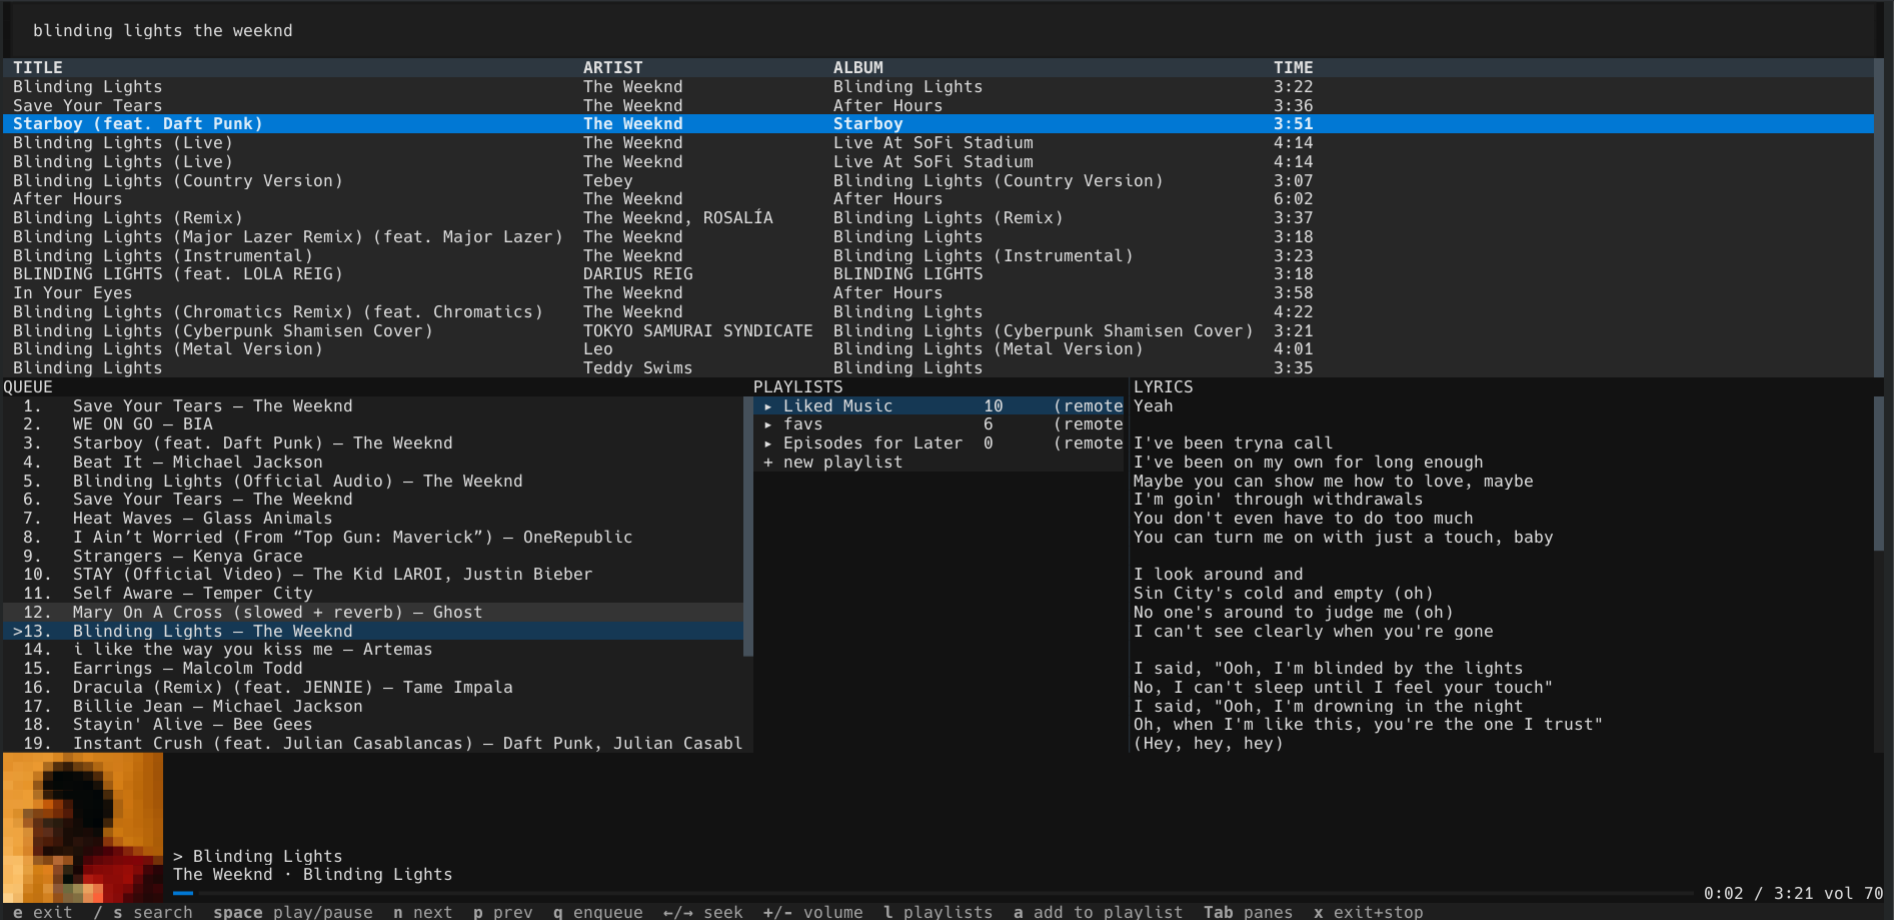
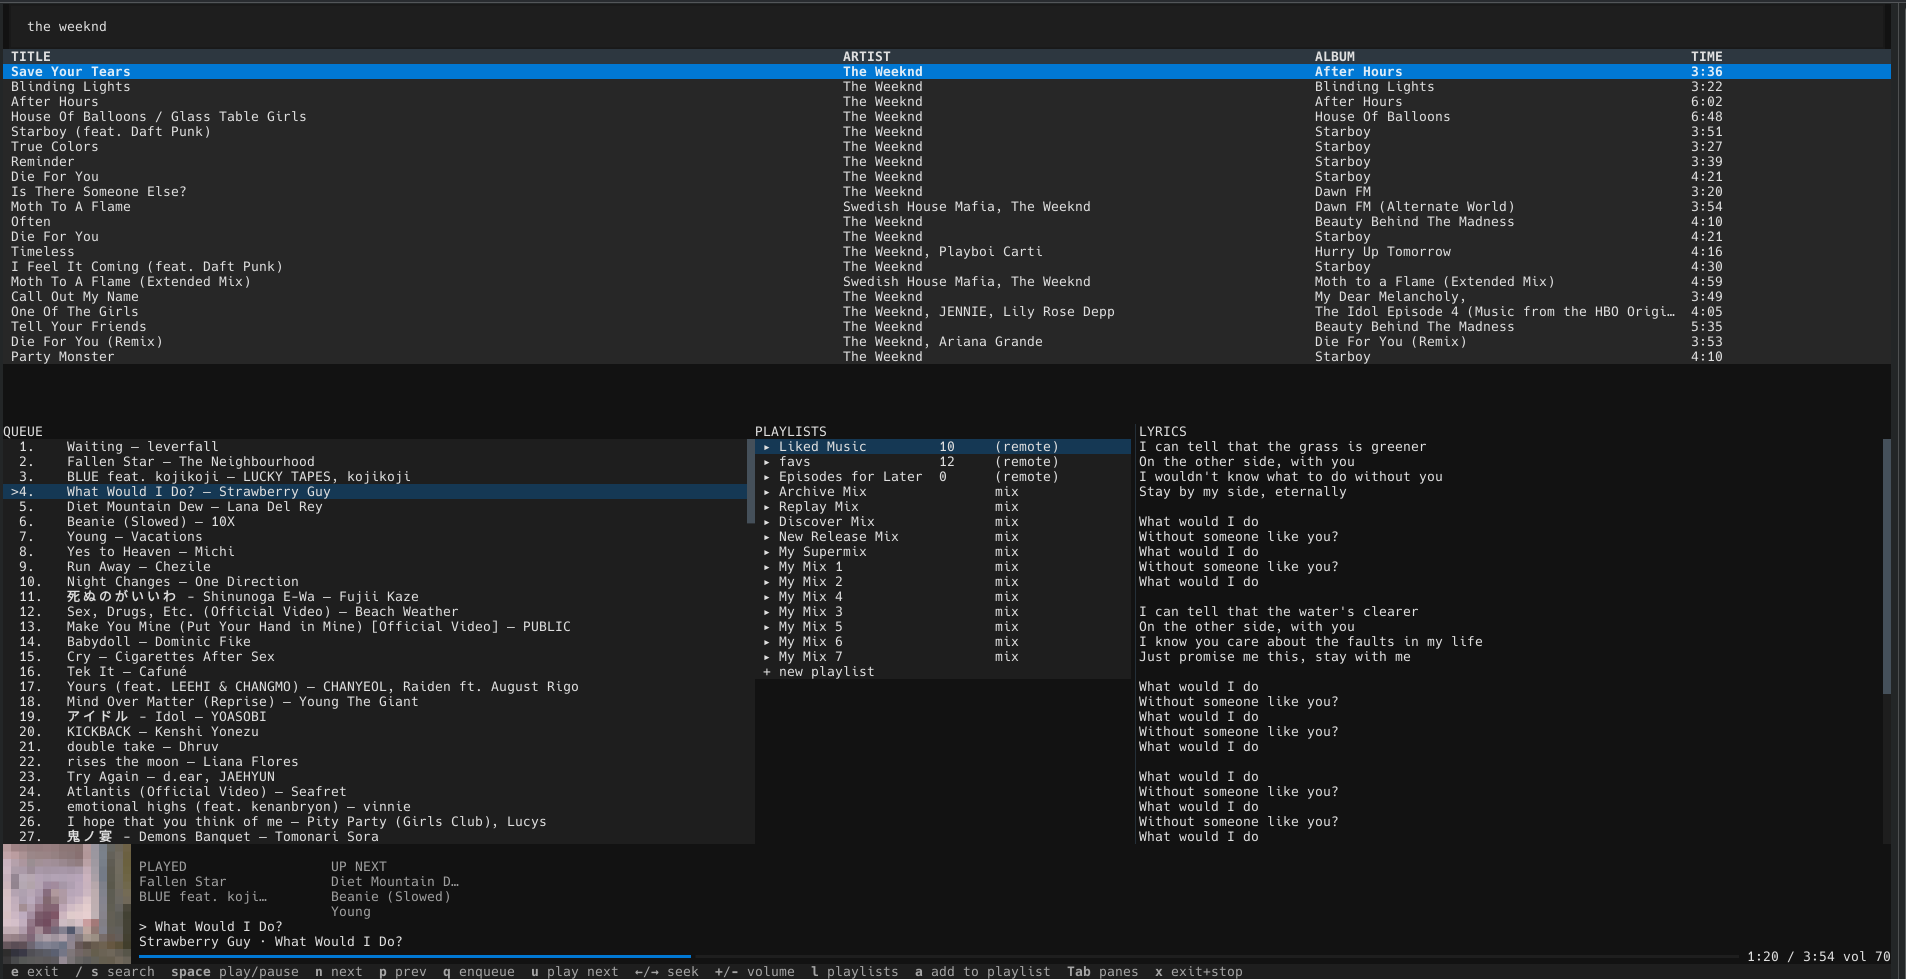
tui: uppercase PLAYED/UP NEXT headings, tighten the columns; refresh README screenshot

diff --git a/ytm/tui/nowplaying.py b/ytm/tui/nowplaying.py
@@ -233,10 +233,10 @@ class NowPlaying(Vertical):
         data = data or {}
         played, up_next = split_queue(data.get("tracks"), data.get("index"))
         self.query_one("#now-playing-played", Static).update(
-            self._render_column("played", played)
+            self._render_column("PLAYED", played)
         )
         self.query_one("#now-playing-upnext", Static).update(
-            self._render_column("up next", up_next)
+            self._render_column("UP NEXT", up_next)
         )
 
     @staticmethod

diff --git a/README.md b/README.md
@@ -9,7 +9,7 @@
   <img alt="Python 3.11+" src="https://img.shields.io/badge/python-3.11%2B-blue">
 </p>
 
-![ytm's TUI: search results on top, queue, playlists and lyrics in the middle, the current track with its cover at the bottom](docs/screenshot.png)
+![ytm's TUI: search results on top, queue, playlists with your daily mixes and lyrics in the middle, the current track with its cover, what just played and what is up next at the bottom](docs/screenshot.png)
 
 ## Overview
 
